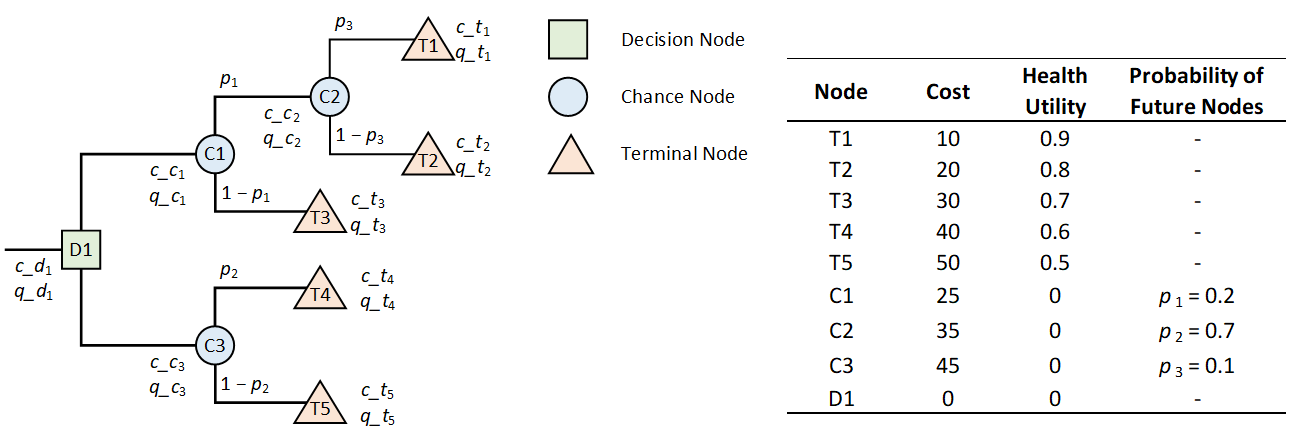
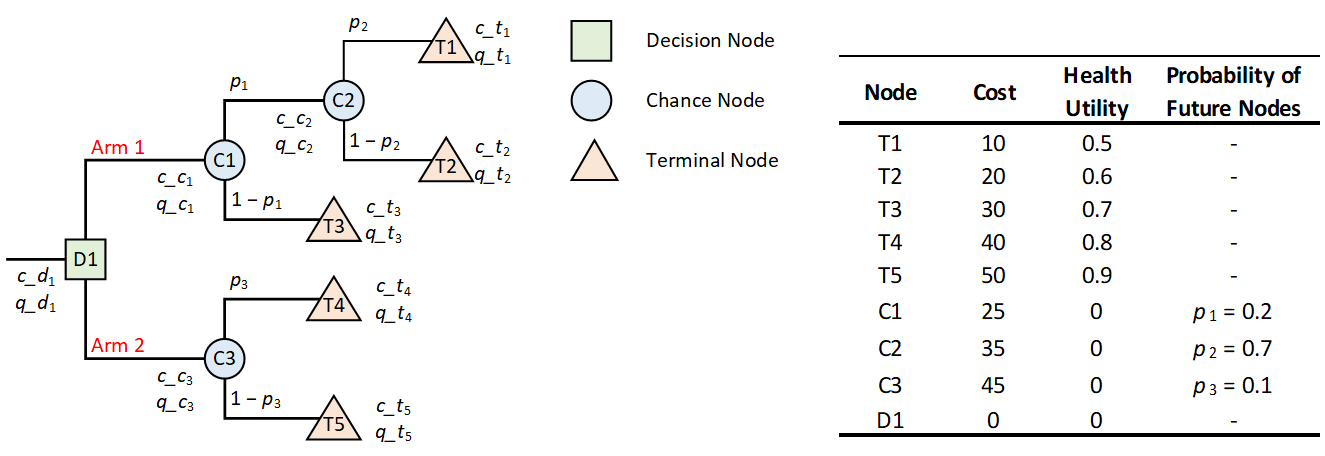
updating probabilities in decision tree

diff --git a/DecisionTree/DecisionTree.py b/DecisionTree/DecisionTree.py
@@ -156,11 +156,11 @@ T4 = TerminalNode('T4', 40, 0.8)
 T5 = TerminalNode('T5', 50, 0.9)
 
 # create C2
-C2 = ChanceNode('C2', 35, 0, [T1, T2], [0.1, 0.9])
+C2 = ChanceNode('C2', 35, 0, [T1, T2], [0.7, 0.3])
 # create C1
 C1 = ChanceNode('C1', 25, 0, [C2, T3], [0.2, 0.8])
 # create C3
-C3 = ChanceNode('C3', 45, 0, [T4, T5], [0.7, 0.3])
+C3 = ChanceNode('C3', 45, 0, [T4, T5], [0.1, 0.9])
 
 # create D1
 D1 = DecisionNode('D1', 0, 0, [C1, C3])
